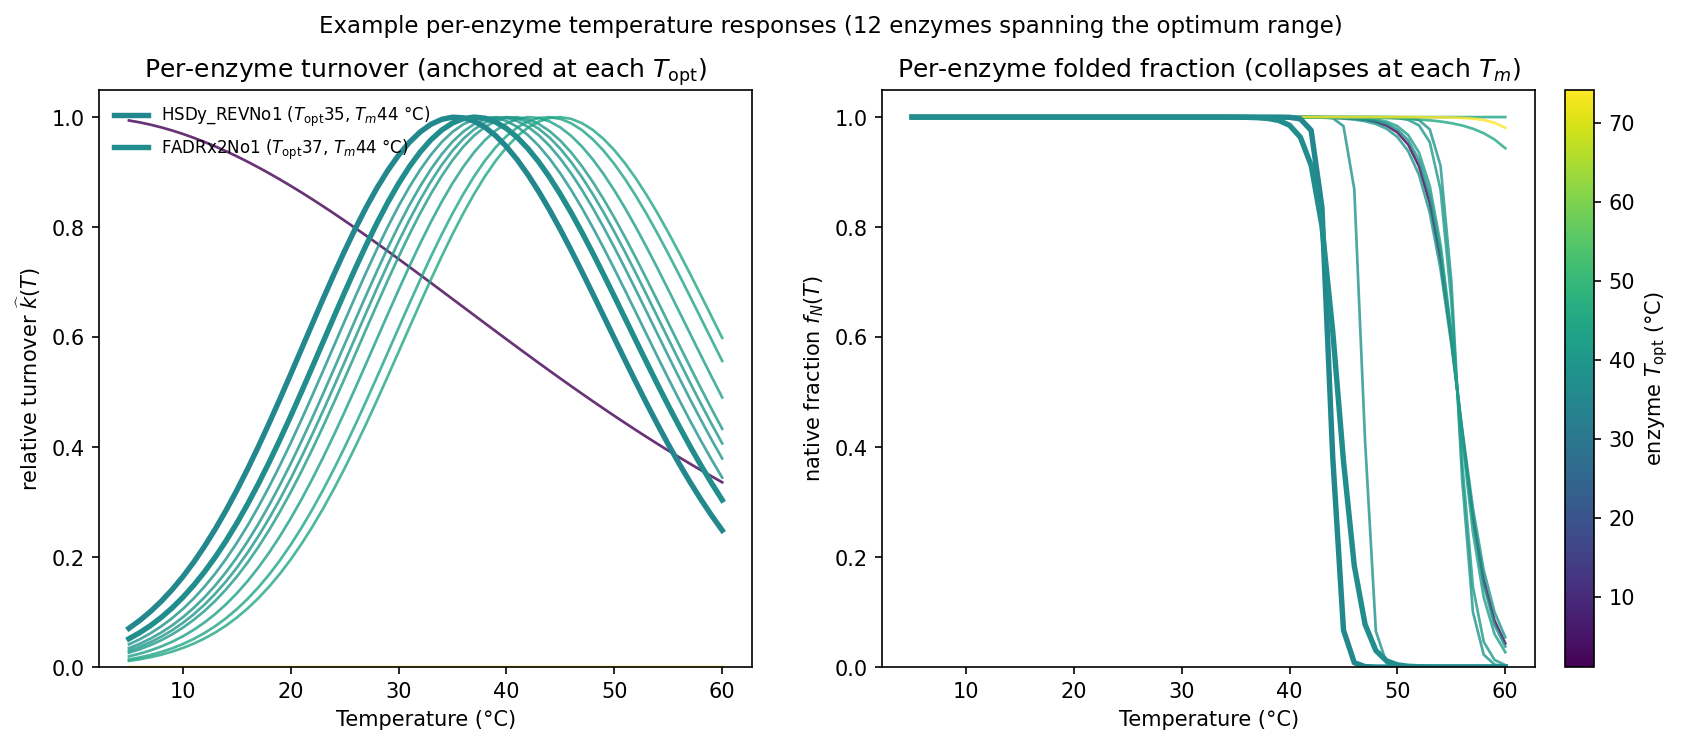
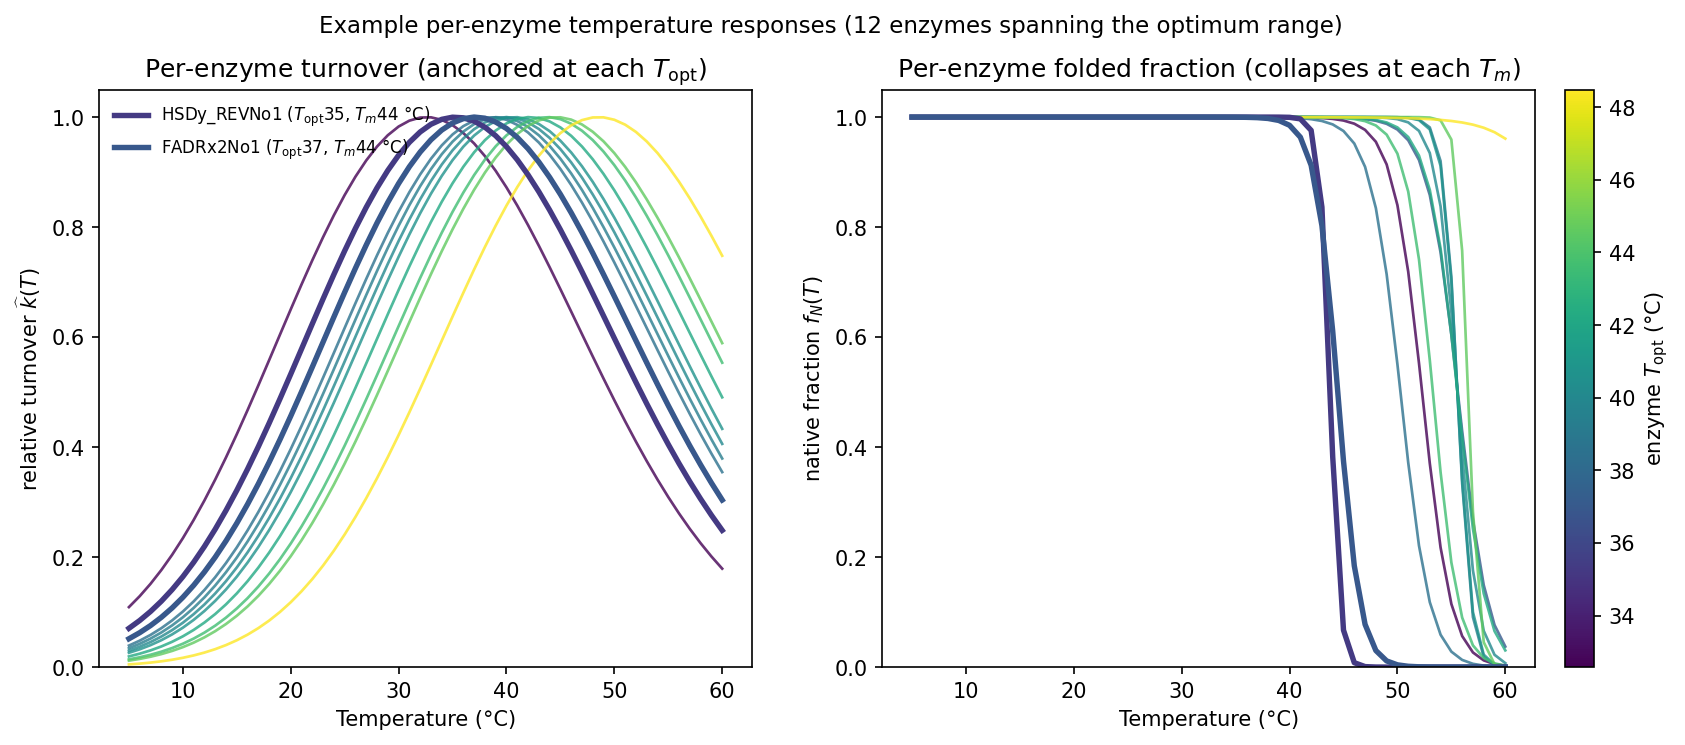
plots: drop low-Topt outlier from example kcat(T) panel
The example-enzyme selection spanned the full Topt range, so a near-0C outlier
enzyme distorted the turnover panel and compressed the Topt colour gradient.
Restrict the representative-enzyme spread to the central 2nd-98th percentile of
Topt so the panel and colourbar show the typical range (~34-48C).

diff --git a/src/etcgem/plotting.py b/src/etcgem/plotting.py
@@ -314,8 +314,12 @@ def plot_example_kcatT(ec, temps_C, out_dir: str, n_examples: int = 10,
     tm = np.asarray(ec._Tm, float)
     hth, sts, cpu, cpt = ec._uHTH, ec._uSTS, ec._uCpu, ec._uCpt
     finite = np.where(np.isfinite(topt) & np.isfinite(tm))[0]
-    order = finite[np.argsort(topt[finite])]
-    # ~n_examples enzymes evenly spaced across the Topt range
+    # exclude extreme outliers (they distort the panel and the colour gradient):
+    # keep the central 2nd-98th percentile of Topt before spreading examples across it
+    lo, hi = np.percentile(topt[finite], [2, 98])
+    core = finite[(topt[finite] >= lo) & (topt[finite] <= hi)]
+    order = core[np.argsort(topt[core])]
+    # ~n_examples enzymes evenly spaced across the (clipped) Topt range
     qs = np.linspace(0, len(order) - 1, n_examples).round().astype(int)
     idx = list(dict.fromkeys(order[qs].tolist()))
     # add highlighted control enzymes if present